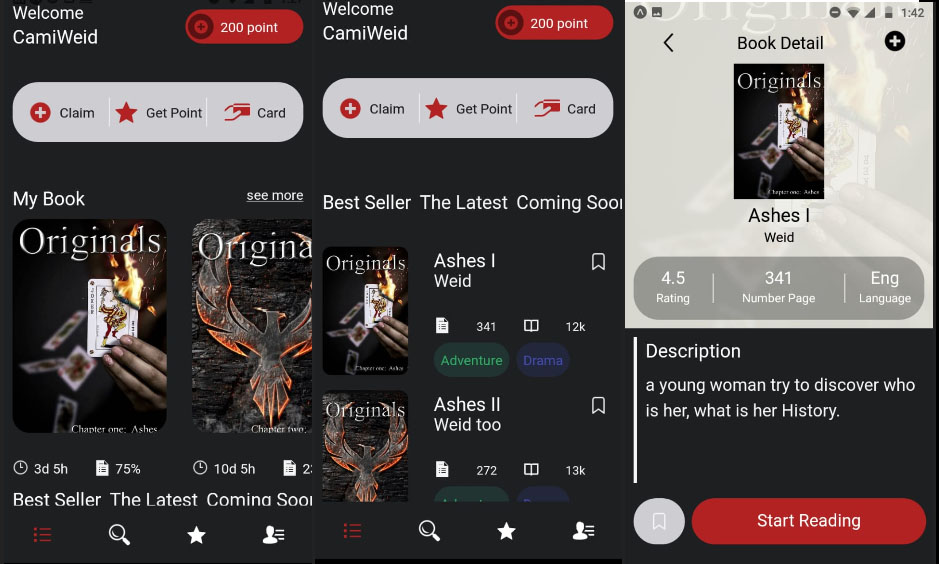
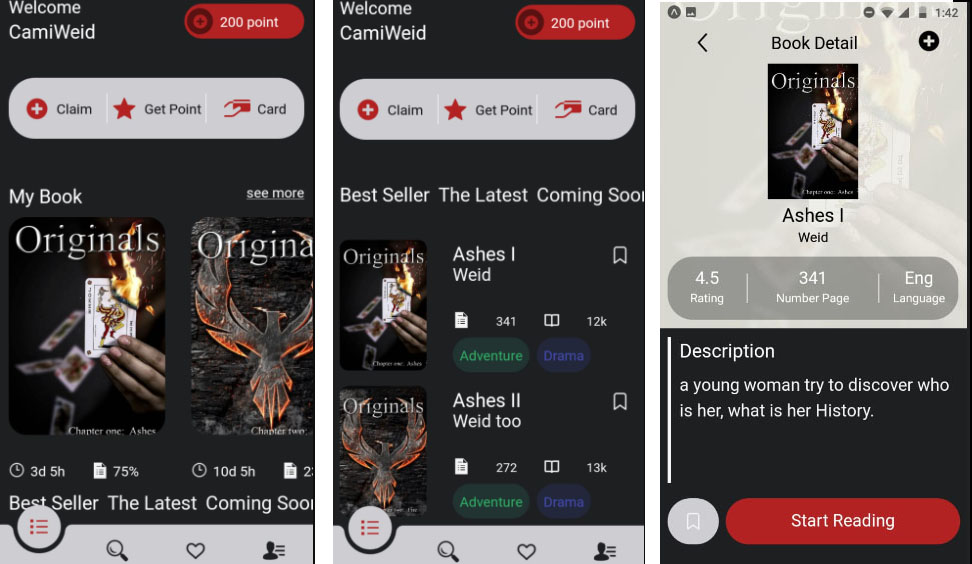
change tabs

diff --git a/navigation/tabs.js b/navigation/tabs.js
@@ -1,103 +1,210 @@
 import React from "react";
-import {
-    Image
-} from 'react-native';
-import { createBottomTabNavigator } from "@react-navigation/bottom-tabs";
+
+import { createBottomTabNavigator, BottomTabBar } from "@react-navigation/bottom-tabs";
 import { Home } from "../screens/";
 import { icons, COLORS } from "../constants";
 
+import {
+    View,
+    Image,
+    TouchableOpacity
+} from 'react-native';
+
+
+import Svg, {Path} from 'react-native-svg'
+
 const Tab = createBottomTabNavigator();
 
-const tabOptions = {
-    showLabel: false,
-    style: {
-        height: "10%",
-        backgroundColor: COLORS.black
+const TabBarCustomButton = ({accessibilityState, children, onPress}) => {
+    var isSelected = accessibilityState.selected
+    
+    if(isSelected) {
+        return (
+            <View style={{ flex:1, alignItems: "center"}}>
+                <View style={{ flexDirection: 'row', position: 'absolute', top: 0, backgroundColor: COLORS.black}}>
+                    <View style= {{flex:1, backgroundColor: COLORS.secondary}}></View>
+                    <Svg
+                        width= {75}
+                        height={61}
+                        viewBox="0 0 75 61"
+                    >
+                        <Path
+                            d="M75.2 0v61H0V0c4.1 0 7.4 3.1 7.9 7.1C10 21.7 22.5 33 37.7 33c15.2 0 27.7-11.3 29.7-25.9.5-4 3.9-7.1 7.9-7.1h-.1z"
+                            fill= {COLORS.secondary}
+                        />
+                    </Svg>
+                    <View style={{ flex: 1, backgroundColor: COLORS.secondary}}></View>
+                </View>
+                <TouchableOpacity
+                    style={{
+                        top: -22.5,
+                        justifyContent: 'center',
+                        alignItems: 'center',
+                        width: 50,
+                        height: 50,
+                        borderRadius: 25,
+                        backgroundColor: COLORS.secondary
+                        
+                    }}
+                    onPress= {onPress}
+                >
+                    {children}
+                </TouchableOpacity>
+            </View>
+
+            
+        )
+    } else {
+        return (
+            <TouchableOpacity
+                style={{
+                    flex:1,
+                    height: 60,
+                    backgroundColor: COLORS.secondary
+                }}
+                activeOpacity={1}
+                onPress={onPress}
+            >
+                {children}
+
+            </TouchableOpacity>
+
+        )
     }
+
 }
 
-const Tabs = () => {
+const CustomTabBar = (props) => {
     return (
+        <View>
+            <View
+                style={{
+
+                    position: 'absolute',
+                    bottom: 0,
+                    left: 0,
+                    right: 0,
+                    height:30,
+                    backgroundColor: COLORS.secondary
+                }}
+            >
+
+            </View>
+        <BottomTabBar {...props.props} />
+        </View>
+    )
+}
+
+const Tabs = () =>{
+    return(
         <Tab.Navigator
-            tabBarOptions={tabOptions}
-            screenOptions={({ route }) => ({
-                tabBarIcon: ({ focused }) => {
-                    const tintColor = focused ? COLORS.primary : COLORS.white;
-
-                    switch (route.name) {
-                        case "Home":
-                            return (
-                                <Image
-                                    source={icons.list}
-                                    resizeMode="contain"
-                                    style={{
-                                        tintColor: tintColor,
-                                        width: 25,
-                                        height: 25
-                                    }}
-                                />
-                            )
-
-                        case "Search":
-                            return (
-                                <Image
-                                    source={icons.lup}
-                                    resizeMode="contain"
-                                    style={{
-                                        tintColor: tintColor,
-                                        width: 25,
-                                        height: 25
-                                    }}
-                                />
-                            )
-
-                        case "Notification":
-                            return (
-                                <Image
-                                    source={icons.star}
-                                    resizeMode="contain"
-                                    style={{
-                                        tintColor: tintColor,
-                                        width: 25,
-                                        height: 25
-                                    }}
-                                />
-                            )
-
-                        case "Setting":
-                            return (
-                                <Image
-                                    source={icons.menu}
-                                    resizeMode="contain"
-                                    style={{
-                                        tintColor: tintColor,
-                                        width: 25,
-                                        height: 25
-                                    }}
-                                />
-                            )
-                    }
+            tabBarOptions={{
+                showLabel:false,
+                style:{
+                    borderTopWidth: 0,
+                    backgroundColor: "transparent",
+                    elevation: 0,
                 }
-            })}
-        >
+            }}
+            tabBar={(props) => (
+                <CustomTabBar
+                    props={props}
+                />
+            )}
+
+            >
             <Tab.Screen
                 name="Home"
                 component={Home}
-            />
-            <Tab.Screen
+                options={{
+                    tabBarIcon: ({focused}) => (
+                        <Image
+                            source={icons.list}
+                            resizeMode="contain"
+                            style={{
+                                width: 25,
+                                height: 25,
+                                tintColor: focused ? COLORS.primary : COLORS.black
+                            }}
+                            />
+                    ),
+                    tabBarButton: (props) => (
+                        <TabBarCustomButton
+                            {...props}
+                        />
+                    )
+                }}
+                />
+                <Tab.Screen
                 name="Search"
                 component={Home}
-            />
-            <Tab.Screen
-                name="Notification"
+                options={{
+                    tabBarIcon: ({focused}) => (
+                        <Image
+                            source={icons.lup}
+                            resizeMode="contain"
+                            style={{
+                                width: 25,
+                                height: 25,
+                                tintColor: focused ? COLORS.primary : COLORS.black
+                            }}
+                            />
+                    ),
+                    tabBarButton: (props) => (
+                        <TabBarCustomButton
+                            {...props}
+                        />
+                    )
+                }}
+                />
+                <Tab.Screen
+                name="Like"
                 component={Home}
-            />
-            <Tab.Screen
-                name="Setting"
+                options={{
+                    tabBarIcon: ({focused}) => (
+                        <Image
+                            source={icons.like}
+                            resizeMode="contain"
+                            style={{
+                                width: 25,
+                                height: 25,
+                                tintColor: focused ? COLORS.primary : COLORS.black
+                            }}
+                            />
+                    ),
+                    tabBarButton: (props) => (
+                        <TabBarCustomButton
+                            {...props}
+                        />
+                    )
+                }}
+                />
+                <Tab.Screen
+                name="User"
                 component={Home}
-            />
+                options={{
+                    tabBarIcon: ({focused}) => (
+                        <Image
+                            source={icons.menu}
+                            resizeMode="contain"
+                            style={{
+                                width: 25,
+                                height: 25,
+                                tintColor: focused ? COLORS.primary : COLORS.black
+                            }}
+                            />
+                    ),
+                    tabBarButton: (props) => (
+                        <TabBarCustomButton
+                            {...props}
+                        />
+                    )
+                }}
+                />
         </Tab.Navigator>
     )
+
 }
+
 
 export default Tabs;
